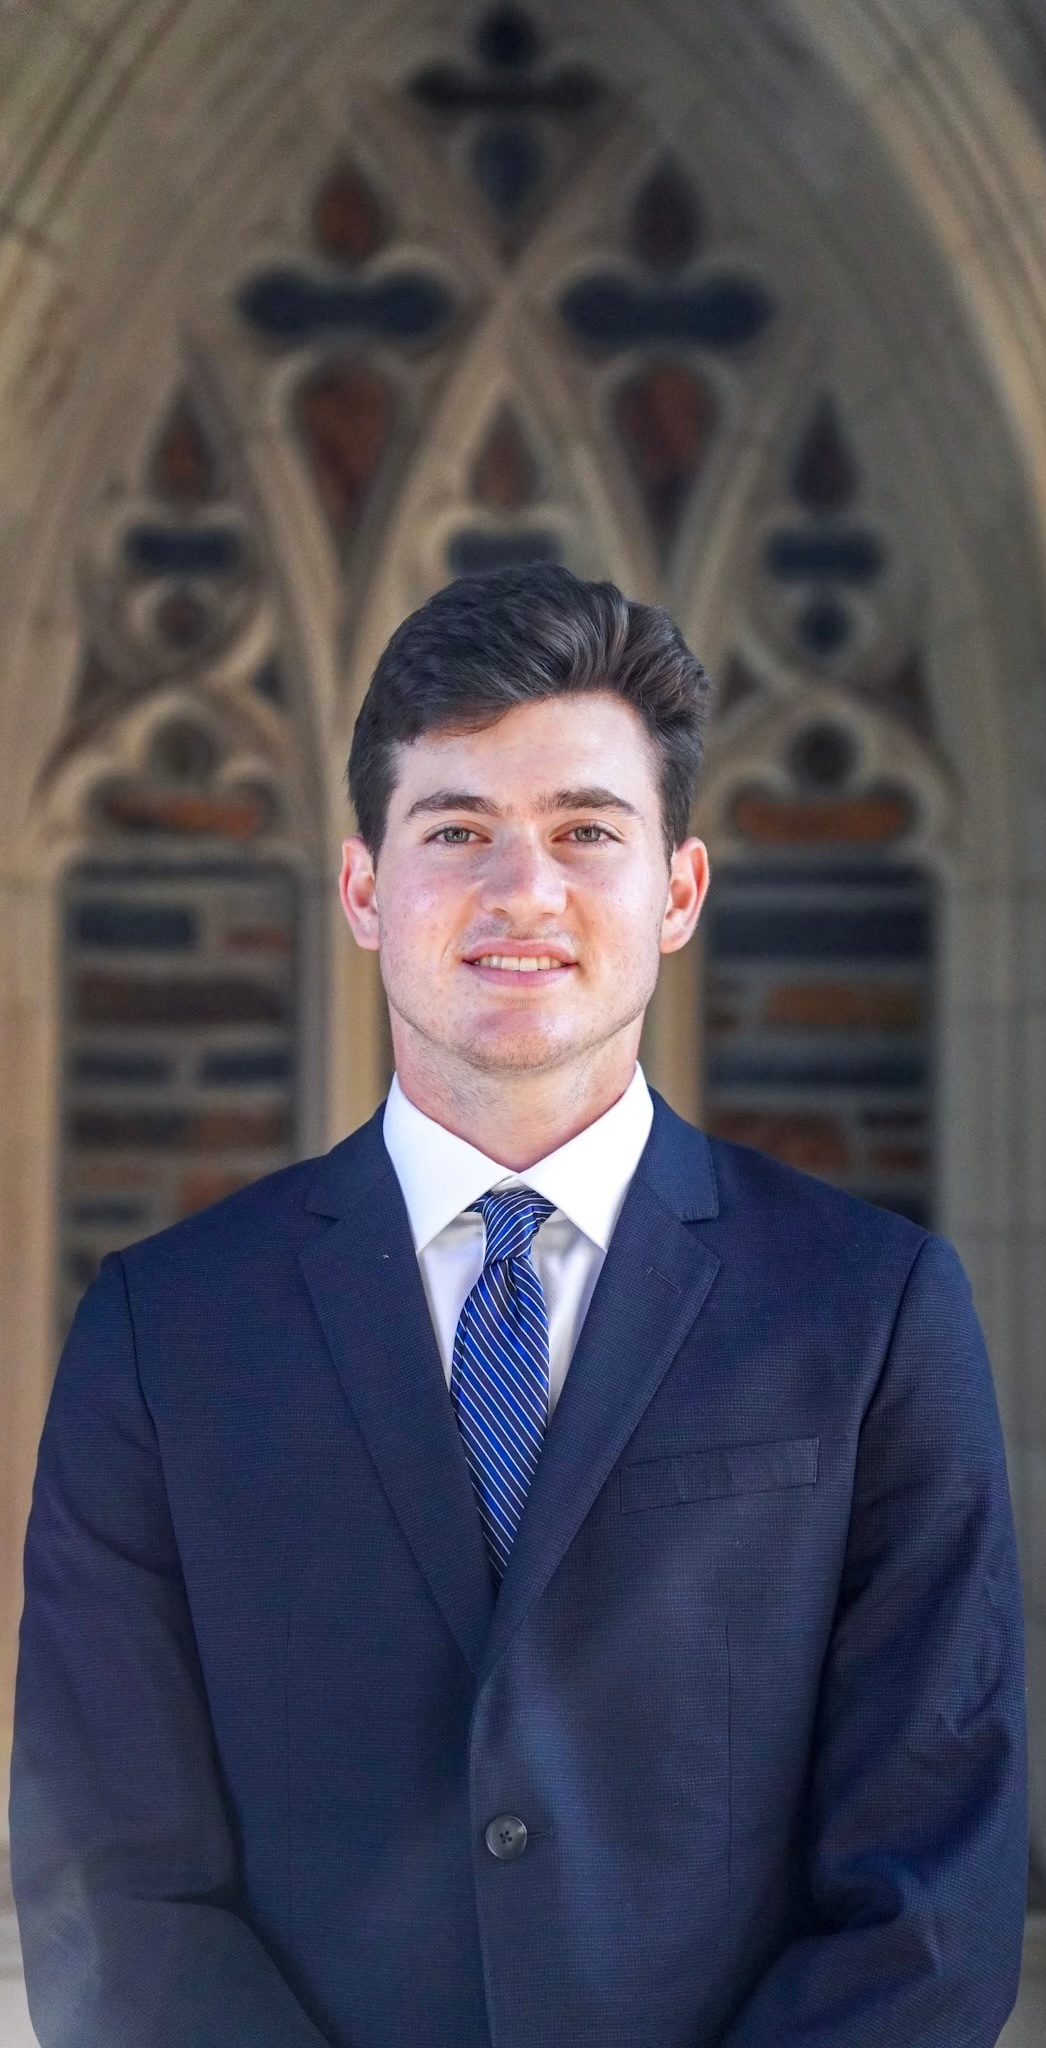
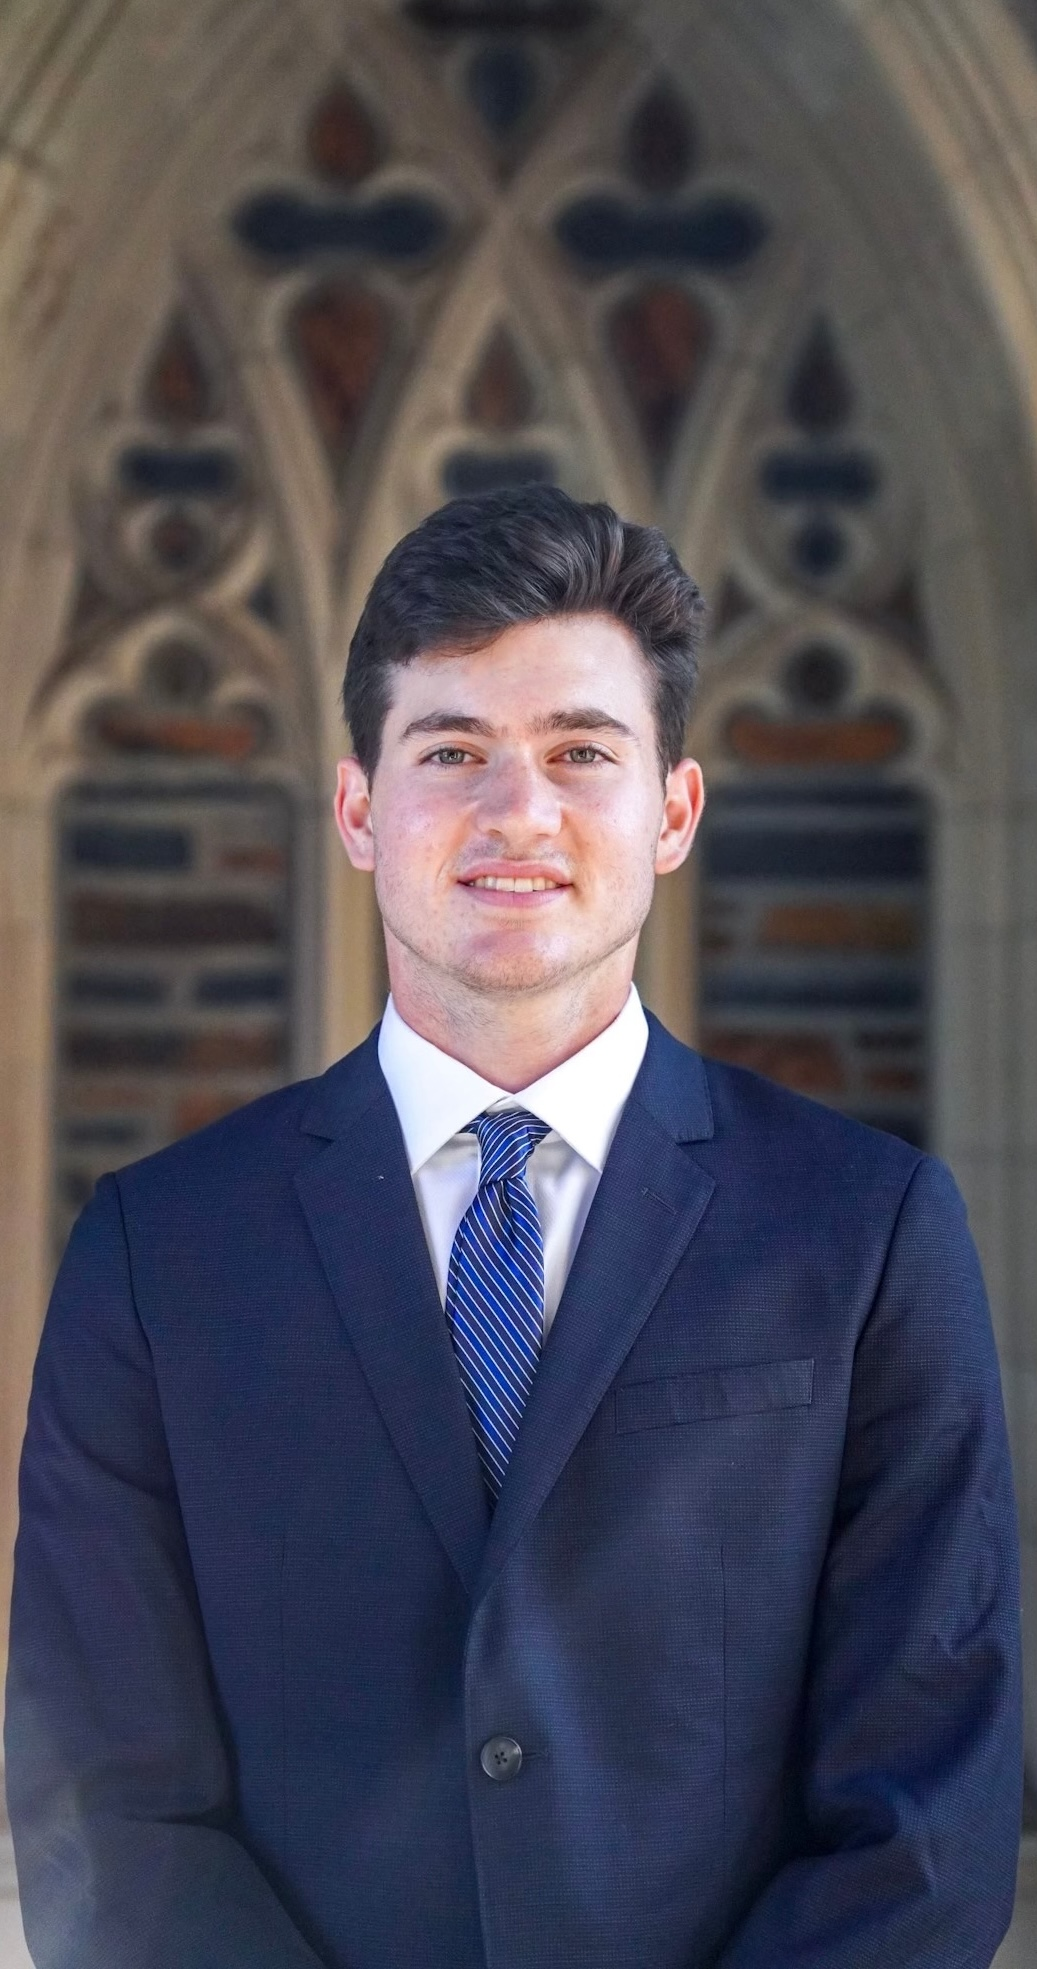
update images to be centered

diff --git a/components/executive-board.tsx b/components/executive-board.tsx
@@ -5,6 +5,7 @@ interface BoardMember {
   title: string
   bio: string
   image: string
+  imagePosition?: string // e.g., "center 30%"
 }
 
 export function ExecutiveBoard() {
@@ -14,18 +15,21 @@ export function ExecutiveBoard() {
       title: "Founder & President",
       bio: "Nate Goldin is a sophomore from Palm Beach Gardens, FL, majoring in Public Policy with a minor in Music and certificate in Markets and Management. Nate has spent his summers working in Venture Capital and Private Wealth Management, and also has experience as an economic research analyst. Outside of DVG, he is involved in Bass Connections, the Fed Challenge Club, and the Duke Symphony Orchestra. In his free time, Nate enjoys playing golf and watching Miami sports.",
       image: "/images/members/nathan-goldin.jpg",
+      imagePosition: "center 25%"
     },
     {
       name: "Diego Keller",
       title: "Co-Founder & Executive Vice President",
       bio: "Diego Keller is a sophomore from Charlotte, NC, pursuing a double major in Economics (with a Finance concentration) and Public Policy, along with a certificate in Markets and Management. He has interned in private equity at Falfurrias Capital and Kian Capital, and in venture capital at Red Bike Capital. Outside of DVG, Diego is a Consultant Analyst for the Duke Impact Investing Group, a Film Analyst for Duke Football, and a member of Duke SHAPE. In his free time, Diego enjoys playing football and grilling with friends.",
       image: "/images/members/diego-keller.jpg",
+      imagePosition: "center 45%"
     },
     {
       name: "Sam Elkin",
       title: "Co-Founder & Executive Vice President",
       bio: "Sam Elkin is a sophomore from Princeton, New Jersey, double-majoring in Mathematics and Economics (finance concentration). Sam has a strong interest in working with entrepreneurs and founders, and has experience working as a Private Equity Analyst at Emerald Square Ventures, a search fund founded by two Wharton MBA graduates. Sam spent his last summer interning at Morgan Stanley in their Wealth Management division. In his free time, he enjoys playing lacrosse, DJing, and watching the Green Bay Packers.",
       image: "/images/members/sam-elkin.jpg",
+      imagePosition: "center 40%"
     },
     {
       name: "Terrence Ware",
@@ -44,18 +48,21 @@ export function ExecutiveBoard() {
       title: "Vice President of Professional",
       bio: "Akshara Krishna is a sophomore from Waxhaw, NC double majoring in Economics and Neuroscience. She's the founder of Elev8, a learning platform helping high school students overcome perfectionism through failure-forward education. Prior to this, she built soft skill and STEAM programs reaching over 43,000 students, advised early-stage startups on growth strategy, and launched an afterschool music initiative to expand access to the arts. Her latest initiative, The Ambition Project, explores what drives young people to take bold action. Outside her work, Akshara is a choreographer, violinist, and pianist who believes creativity is central to leadership.",
       image: "/images/members/akshara-krishna.jpg",
+      imagePosition: "center 63%",
     },
     {
       name: "Alexa Jacob",
       title: "Vice President of Membership",
       bio: "Alexa Jacob is a sophomore from Short Hills, NJ, majoring in Risk, Data, and Financial Engineering with a minor in Economics. Alexa has spent the past few summers working for a real estate firm. She is currently working as a research assistant for the Duke department of Economics on modeling the downside risk in the stock market. Outside of DVG, Alexa is a member of the Society of Women Engineers and the Duke Real Estate Club, and works as a tour guide for Duke Admissions. In her free time, Alexa enjoys traveling, baking, and watching sports.",
       image: "/images/members/alexa-jacob.jpg",
+      imagePosition: "center 40%",
     },
     {
       name: "Natalie Miner",
       title: "Vice President of Education",
       bio: "Natalie Miner is a Sophomore from Minnetrista, MN, double-majoring in Mathematics and Economics. Natalie has a strong interest in Entrepreneurship and analytical problem-solving. Outside of DVG, Natalie is a Dzialga Women in Finance Scholar, serves as Publicity Chair for First Generation Investors, serves on the Spring Business Conference Committee of BOW, and is a member of the Duke Association for Women in Mathematics. This past summer, Natalie worked on a Data+ research project at Duke called Ethical Consumption Before Capitalism.",
       image: "/images/members/natalie-miner.jpg",
+      imagePosition: "center 40%",
     },
     {
       name: "Tommy Brennan",
@@ -68,6 +75,7 @@ export function ExecutiveBoard() {
       title: "Vice President of Recruitment",
       bio: "Lauren Hollar is a sophomore from Charlotte, NC, majoring in Economics with a minor in chemistry and certificate in Markets and Management. Over the past several summers, Lauren has launched and enhanced her nonprofit organization, gained insight into financial policy through a shadowing experience at the U.S. House of Representatives, and deepened her understanding of real estate investment by observing industry professionals. Outside of DVG, Lauren works as a tour guide for Duke Admissions and serves as an ambassador for Duke Global Education. In her free time, Lauren enjoys playing golf, traveling, and spending time with family.",
       image: "/images/members/lauren-hollar.jpg",
+      imagePosition: "center 56%",
     },
     {
       name: "Vanessa Dare",
@@ -109,6 +117,9 @@ export function ExecutiveBoard() {
                     fill
                     className="object-cover rounded-full"
                     priority={index < 6}
+                    style={{
+                      objectPosition: member.imagePosition ?? "center",
+                    }}
                   />
                 </div>
               </div>
